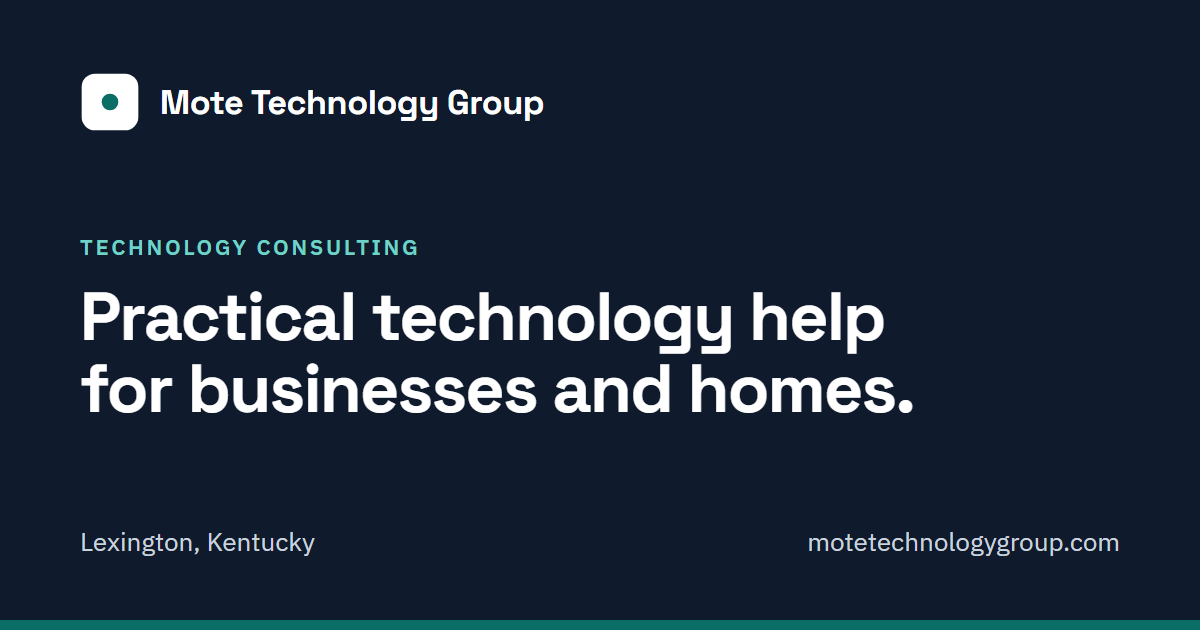
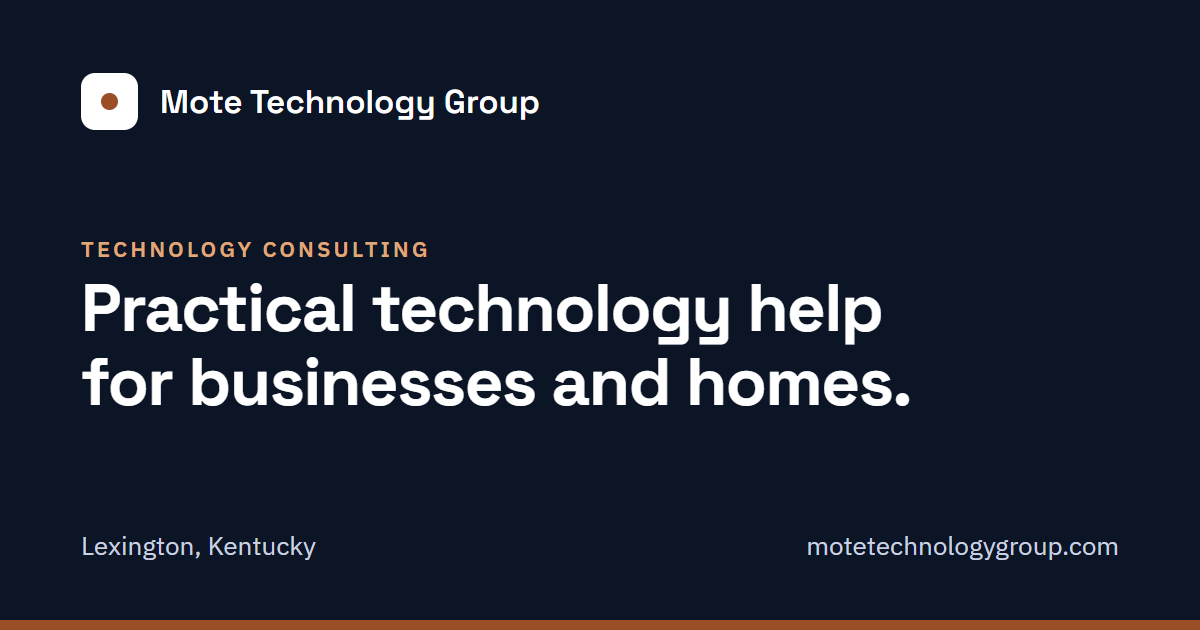
Switch to Midnight Copper color palette
Recolor index.html, 404.html, favicon.svg, og-image.png and
apple-touch-icon.png to the new palette.

diff --git a/index.html b/index.html
@@ -21,7 +21,7 @@
 <meta name="twitter:title" content="Mote Technology Group">
 <meta name="twitter:description" content="Practical technology help for businesses and homes, from Jackson Mote in Lexington, Kentucky.">
 <meta name="twitter:image" content="https://motetechnologygroup.com/og-image.png">
-<meta name="theme-color" content="#0F1B2D">
+<meta name="theme-color" content="#0C1526">
 <link rel="preconnect" href="https://fonts.googleapis.com">
 <link rel="preconnect" href="https://fonts.gstatic.com" crossorigin>
 <link href="https://fonts.googleapis.com/css2?family=Space+Grotesk:wght@500;600;700&amp;family=IBM+Plex+Sans:wght@400;500;600&amp;display=swap" rel="stylesheet">
@@ -54,91 +54,91 @@
 }
 </script>
 <style>
-body{margin:0;background:#F4F6F8}
-a{color:#0B5F59}a:hover{color:#083F3B}
+body{margin:0;background:#F7F4F0}
+a{color:#8A4521}a:hover{color:#6A3418}
 @media (max-width: 1000px){.svc-grid{grid-template-columns:repeat(2,minmax(0,1fr)) !important}}
 @media (max-width: 560px){.svc-grid{grid-template-columns:minmax(0,1fr) !important}}
 html{scroll-behavior:smooth}
 @media (max-width: 1000px){.hero-tiles{display:none !important}}
 @media (max-width: 640px){.site-header{padding-top:16px !important;padding-bottom:8px !important;row-gap:4px !important}.nav-cta{display:none !important}}
-a:focus-visible{outline:3px solid #0B6E66;outline-offset:3px}
+a:focus-visible{outline:3px solid #9A4F26;outline-offset:3px}
 @media (prefers-reduced-motion: reduce){html{scroll-behavior:auto}}
-.skip-link{position:absolute;left:16px;top:-80px;z-index:10;display:inline-flex;align-items:center;min-height:44px;padding:0 18px;border-radius:8px;background:#0F1B2D;color:#FFFFFF;font-family:'IBM Plex Sans',system-ui,sans-serif;font-weight:600;text-decoration:none}
+.skip-link{position:absolute;left:16px;top:-80px;z-index:10;display:inline-flex;align-items:center;min-height:44px;padding:0 18px;border-radius:8px;background:#0C1526;color:#FFFFFF;font-family:'IBM Plex Sans',system-ui,sans-serif;font-weight:600;text-decoration:none}
 .skip-link:focus{top:16px;color:#FFFFFF}
 </style>
 </head>
-<body><a class="skip-link" href="#top">Skip to content</a><div style="min-height: 100vh; background: #F4F6F8; color: #0F1B2D; font-family: 'IBM Plex Sans', system-ui, sans-serif; font-size: 17px; line-height: 1.6">
+<body><a class="skip-link" href="#top">Skip to content</a><div style="min-height: 100vh; background: #F7F4F0; color: #0C1526; font-family: 'IBM Plex Sans', system-ui, sans-serif; font-size: 17px; line-height: 1.6">
 
 <header class="site-header" style="max-width: 1160px; margin: 0 auto; padding: 24px 24px; display: flex; flex-wrap: wrap; gap: 16px; align-items: center; justify-content: space-between">
-<a href="#top" style="display: flex; align-items: center; gap: 12px; text-decoration: none; color: #0F1B2D">
-<svg width="36" height="36" viewBox="0 0 36 36" aria-hidden="true"><rect x="1" y="1" width="34" height="34" rx="8" fill="#0F1B2D"></rect><circle cx="18" cy="18" r="5" fill="#0B6E66"></circle></svg>
+<a href="#top" style="display: flex; align-items: center; gap: 12px; text-decoration: none; color: #0C1526">
+<svg width="36" height="36" viewBox="0 0 36 36" aria-hidden="true"><rect x="1" y="1" width="34" height="34" rx="8" fill="#0C1526"></rect><circle cx="18" cy="18" r="5" fill="#9A4F26"></circle></svg>
 <span style="font-family: 'Space Grotesk', sans-serif; font-weight: 700; font-size: 19px; letter-spacing: -0.01em">Mote Technology Group</span>
 </a>
 <nav style="display: flex; flex-wrap: wrap; gap: 24px; align-items: center">
-<a href="#services" style="display: inline-flex; align-items: center; min-height: 44px; color: #33415A; text-decoration: none; font-weight: 500">Services</a>
-<a href="#approach" style="display: inline-flex; align-items: center; min-height: 44px; color: #33415A; text-decoration: none; font-weight: 500">Approach</a>
-<a href="#about" style="display: inline-flex; align-items: center; min-height: 44px; color: #33415A; text-decoration: none; font-weight: 500">About</a>
-<a class="nav-cta" href="https://www.linkedin.com/in/jacksonmote/" style="display: inline-flex; align-items: center; min-height: 44px; padding: 0 18px; border-radius: 8px; background: #0F1B2D; color: #FFFFFF; text-decoration: none; font-weight: 600">Connect on LinkedIn</a>
+<a href="#services" style="display: inline-flex; align-items: center; min-height: 44px; color: #352F33; text-decoration: none; font-weight: 500">Services</a>
+<a href="#approach" style="display: inline-flex; align-items: center; min-height: 44px; color: #352F33; text-decoration: none; font-weight: 500">Approach</a>
+<a href="#about" style="display: inline-flex; align-items: center; min-height: 44px; color: #352F33; text-decoration: none; font-weight: 500">About</a>
+<a class="nav-cta" href="https://www.linkedin.com/in/jacksonmote/" style="display: inline-flex; align-items: center; min-height: 44px; padding: 0 18px; border-radius: 8px; background: #0C1526; color: #FFFFFF; text-decoration: none; font-weight: 600">Connect on LinkedIn</a>
 </nav>
 </header>
 
 <section id="top" style="max-width: 1160px; margin: 0 auto; padding: 72px 24px 88px; display: flex; flex-wrap: wrap; gap: 48px; align-items: center">
 <div style="flex: 999 1 560px; min-width: 0">
-<p style="margin: 0 0 20px; font-weight: 600; font-size: 14px; letter-spacing: 0.12em; text-transform: uppercase; color: #0B6E66">Technology consulting</p>
+<p style="margin: 0 0 20px; font-weight: 600; font-size: 14px; letter-spacing: 0.12em; text-transform: uppercase; color: #9A4F26">Technology consulting</p>
 <h1 style="margin: 0 0 24px; font-family: 'Space Grotesk', sans-serif; font-weight: 700; font-size: clamp(40px, 6vw, 68px); line-height: 1.05; letter-spacing: -0.025em">Practical technology help for teams that need to get it right.</h1>
-<p style="margin: 0 0 36px; max-width: 600px; font-size: 20px; color: #33415A">Product strategy, systems and workflow analysis, hands-on builds and home technology setups, from someone who has spent years turning complex requirements into software people actually use.</p>
+<p style="margin: 0 0 36px; max-width: 600px; font-size: 20px; color: #352F33">Product strategy, systems and workflow analysis, hands-on builds and home technology setups, from someone who has spent years turning complex requirements into software people actually use.</p>
 <div style="display: flex; flex-wrap: wrap; gap: 16px">
-<a href="mailto:hello@motetechnologygroup.com?subject=Project%20inquiry" style="display: inline-flex; align-items: center; min-height: 52px; padding: 0 26px; border-radius: 10px; background: #0B6E66; color: #FFFFFF; text-decoration: none; font-weight: 600; font-size: 17px">Start a conversation</a>
-<a href="#services" style="display: inline-flex; align-items: center; min-height: 52px; padding: 0 26px; border-radius: 10px; border: 1.5px solid #0F1B2D; color: #0F1B2D; text-decoration: none; font-weight: 600; font-size: 17px">See services</a>
+<a href="mailto:hello@motetechnologygroup.com?subject=Project%20inquiry" style="display: inline-flex; align-items: center; min-height: 52px; padding: 0 26px; border-radius: 10px; background: #9A4F26; color: #FFFFFF; text-decoration: none; font-weight: 600; font-size: 17px">Start a conversation</a>
+<a href="#services" style="display: inline-flex; align-items: center; min-height: 52px; padding: 0 26px; border-radius: 10px; border: 1.5px solid #0C1526; color: #0C1526; text-decoration: none; font-weight: 600; font-size: 17px">See services</a>
 </div>
 </div>
 <div class="hero-tiles" style="flex: 1 1 320px; min-width: 0; display: grid; grid-template-columns: repeat(2, minmax(0, 1fr)); gap: 14px" aria-hidden="true">
-<div style="height: 140px; border-radius: 16px; background: #0F1B2D"></div>
-<div style="height: 140px; border-radius: 16px; background: #DCE3EA; display: flex; align-items: center; justify-content: center"><div style="width: 56px; height: 56px; border-radius: 50%; background: #0B6E66"></div></div>
-<div style="height: 140px; border-radius: 16px; background: #DCE3EA"></div>
-<div style="height: 140px; border-radius: 16px; background: #0F1B2D; display: flex; align-items: flex-end; padding: 18px; box-sizing: border-box"><div style="width: 100%; height: 6px; border-radius: 3px; background: #0B6E66"></div></div>
+<div style="height: 140px; border-radius: 16px; background: #0C1526"></div>
+<div style="height: 140px; border-radius: 16px; background: #E5DED5; display: flex; align-items: center; justify-content: center"><div style="width: 56px; height: 56px; border-radius: 50%; background: #9A4F26"></div></div>
+<div style="height: 140px; border-radius: 16px; background: #E5DED5"></div>
+<div style="height: 140px; border-radius: 16px; background: #0C1526; display: flex; align-items: flex-end; padding: 18px; box-sizing: border-box"><div style="width: 100%; height: 6px; border-radius: 3px; background: #9A4F26"></div></div>
 </div>
 </section>
 
-<section id="services" style="background: #FFFFFF; border-top: 1px solid #DCE3EA; border-bottom: 1px solid #DCE3EA">
+<section id="services" style="background: #FFFFFF; border-top: 1px solid #E5DED5; border-bottom: 1px solid #E5DED5">
 <div style="max-width: 1160px; margin: 0 auto; padding: 88px 24px">
 <h2 style="margin: 0 0 12px; font-family: 'Space Grotesk', sans-serif; font-size: clamp(30px, 4vw, 42px); letter-spacing: -0.02em; line-height: 1.15">What I can help with</h2>
-<p style="margin: 0 0 48px; max-width: 620px; color: #33415A">Focused engagements, scoped up front, with clear deliverables.</p>
-<p style="margin: 0 0 16px; font-weight: 600; font-size: 14px; letter-spacing: 0.12em; text-transform: uppercase; color: #4A5870">For businesses</p>
+<p style="margin: 0 0 48px; max-width: 620px; color: #352F33">Focused engagements, scoped up front, with clear deliverables.</p>
+<p style="margin: 0 0 16px; font-weight: 600; font-size: 14px; letter-spacing: 0.12em; text-transform: uppercase; color: #5A5059">For businesses</p>
 <div class="svc-grid" style="display: grid; grid-template-columns: repeat(4, minmax(0, 1fr)); gap: 20px">
 
-<div style="padding: 28px; border-radius: 14px; background: #F4F6F8; display: flex; flex-direction: column; gap: 12px">
-<svg width="32" height="32" viewBox="0 0 24 24" fill="none" stroke="#0B6E66" stroke-width="1.8" stroke-linecap="round" stroke-linejoin="round" aria-hidden="true"><path d="M3 12h4l3-8 4 16 3-8h4"></path></svg>
+<div style="padding: 28px; border-radius: 14px; background: #F7F4F0; display: flex; flex-direction: column; gap: 12px">
+<svg width="32" height="32" viewBox="0 0 24 24" fill="none" stroke="#9A4F26" stroke-width="1.8" stroke-linecap="round" stroke-linejoin="round" aria-hidden="true"><path d="M3 12h4l3-8 4 16 3-8h4"></path></svg>
 <h3 style="margin: 0; font-family: 'Space Grotesk', sans-serif; font-size: 21px">Product strategy</h3>
-<p style="margin: 0; color: #33415A; font-size: 16px">Roadmaps, requirements and prioritization that tie what you build to what the business needs.</p>
+<p style="margin: 0; color: #352F33; font-size: 16px">Roadmaps, requirements and prioritization that tie what you build to what the business needs.</p>
 </div>
 
-<div style="padding: 28px; border-radius: 14px; background: #F4F6F8; display: flex; flex-direction: column; gap: 12px">
-<svg width="32" height="32" viewBox="0 0 24 24" fill="none" stroke="#0B6E66" stroke-width="1.8" stroke-linecap="round" stroke-linejoin="round" aria-hidden="true"><rect x="3" y="3" width="7" height="7" rx="1.5"></rect><rect x="14" y="14" width="7" height="7" rx="1.5"></rect><path d="M10 6.5h4a3 3 0 0 1 3 3V14"></path></svg>
+<div style="padding: 28px; border-radius: 14px; background: #F7F4F0; display: flex; flex-direction: column; gap: 12px">
+<svg width="32" height="32" viewBox="0 0 24 24" fill="none" stroke="#9A4F26" stroke-width="1.8" stroke-linecap="round" stroke-linejoin="round" aria-hidden="true"><rect x="3" y="3" width="7" height="7" rx="1.5"></rect><rect x="14" y="14" width="7" height="7" rx="1.5"></rect><path d="M10 6.5h4a3 3 0 0 1 3 3V14"></path></svg>
 <h3 style="margin: 0; font-family: 'Space Grotesk', sans-serif; font-size: 21px">Systems &amp; workflow review</h3>
-<p style="margin: 0; color: #33415A; font-size: 16px">A clear-eyed look at how your tools and processes fit together, and where the friction is.</p>
+<p style="margin: 0; color: #352F33; font-size: 16px">A clear-eyed look at how your tools and processes fit together, and where the friction is.</p>
 </div>
 
-<div style="padding: 28px; border-radius: 14px; background: #F4F6F8; display: flex; flex-direction: column; gap: 12px">
-<svg width="32" height="32" viewBox="0 0 24 24" fill="none" stroke="#0B6E66" stroke-width="1.8" stroke-linecap="round" stroke-linejoin="round" aria-hidden="true"><rect x="3" y="4" width="18" height="14" rx="2"></rect><path d="M3 8h18M8 21h8"></path></svg>
+<div style="padding: 28px; border-radius: 14px; background: #F7F4F0; display: flex; flex-direction: column; gap: 12px">
+<svg width="32" height="32" viewBox="0 0 24 24" fill="none" stroke="#9A4F26" stroke-width="1.8" stroke-linecap="round" stroke-linejoin="round" aria-hidden="true"><rect x="3" y="4" width="18" height="14" rx="2"></rect><path d="M3 8h18M8 21h8"></path></svg>
 <h3 style="margin: 0; font-family: 'Space Grotesk', sans-serif; font-size: 21px">Websites &amp; small-business tech</h3>
-<p style="margin: 0; color: #33415A; font-size: 16px">Modern, fast websites and the everyday setup behind them: domains, email and hosting.</p>
+<p style="margin: 0; color: #352F33; font-size: 16px">Modern, fast websites and the everyday setup behind them: domains, email and hosting.</p>
 </div>
 
-<div style="padding: 28px; border-radius: 14px; background: #F4F6F8; display: flex; flex-direction: column; gap: 12px">
-<svg width="32" height="32" viewBox="0 0 24 24" fill="none" stroke="#0B6E66" stroke-width="1.8" stroke-linecap="round" stroke-linejoin="round" aria-hidden="true"><path d="M12 3v3M12 18v3M3 12h3M18 12h3M5.6 5.6l2.1 2.1M16.3 16.3l2.1 2.1M5.6 18.4l2.1-2.1M16.3 7.7l2.1-2.1"></path><circle cx="12" cy="12" r="3.5"></circle></svg>
+<div style="padding: 28px; border-radius: 14px; background: #F7F4F0; display: flex; flex-direction: column; gap: 12px">
+<svg width="32" height="32" viewBox="0 0 24 24" fill="none" stroke="#9A4F26" stroke-width="1.8" stroke-linecap="round" stroke-linejoin="round" aria-hidden="true"><path d="M12 3v3M12 18v3M3 12h3M18 12h3M5.6 5.6l2.1 2.1M16.3 16.3l2.1 2.1M5.6 18.4l2.1-2.1M16.3 7.7l2.1-2.1"></path><circle cx="12" cy="12" r="3.5"></circle></svg>
 <h3 style="margin: 0; font-family: 'Space Grotesk', sans-serif; font-size: 21px">Automation &amp; AI tooling</h3>
-<p style="margin: 0; color: #33415A; font-size: 16px">Practical automation and AI-assisted tools that remove repetitive work without adding risk.</p>
+<p style="margin: 0; color: #352F33; font-size: 16px">Practical automation and AI-assisted tools that remove repetitive work without adding risk.</p>
 </div>
 
 </div>
 
-<p style="margin: 48px 0 16px; font-weight: 600; font-size: 14px; letter-spacing: 0.12em; text-transform: uppercase; color: #4A5870">For homes</p>
-<div style="padding: 36px; border-radius: 14px; background: #E7F2F0; display: flex; flex-wrap: wrap; gap: 32px; align-items: center">
+<p style="margin: 48px 0 16px; font-weight: 600; font-size: 14px; letter-spacing: 0.12em; text-transform: uppercase; color: #5A5059">For homes</p>
+<div style="padding: 36px; border-radius: 14px; background: #F3E9DF; display: flex; flex-wrap: wrap; gap: 32px; align-items: center">
 <div style="flex: 1 1 360px; min-width: 0; display: flex; flex-direction: column; gap: 12px">
-<svg width="32" height="32" viewBox="0 0 24 24" fill="none" stroke="#0B6E66" stroke-width="1.8" stroke-linecap="round" stroke-linejoin="round" aria-hidden="true"><path d="M3 11l9-7 9 7"></path><path d="M5 10v10h14V10"></path><path d="M9.5 15.5a3.5 3.5 0 0 1 5 0M8 13.5a6 6 0 0 1 8 0"></path><circle cx="12" cy="17.5" r="0.6" fill="#0B6E66"></circle></svg>
+<svg width="32" height="32" viewBox="0 0 24 24" fill="none" stroke="#9A4F26" stroke-width="1.8" stroke-linecap="round" stroke-linejoin="round" aria-hidden="true"><path d="M3 11l9-7 9 7"></path><path d="M5 10v10h14V10"></path><path d="M9.5 15.5a3.5 3.5 0 0 1 5 0M8 13.5a6 6 0 0 1 8 0"></path><circle cx="12" cy="17.5" r="0.6" fill="#9A4F26"></circle></svg>
 <h3 style="margin: 0; font-family: 'Space Grotesk', sans-serif; font-size: 24px">Home technology</h3>
-<p style="margin: 0; color: #33415A; font-size: 16px; max-width: 460px">Reliable Wi-Fi, a well-organized home network and smart-home devices that actually work together. Everything is set up securely and explained so you can manage it. Serving the Lexington area.</p>
+<p style="margin: 0; color: #352F33; font-size: 16px; max-width: 460px">Reliable Wi-Fi, a well-organized home network and smart-home devices that actually work together. Everything is set up securely and explained so you can manage it. Serving the Lexington area.</p>
 </div>
 <div style="flex: 1 1 360px; min-width: 0; display: grid; grid-template-columns: repeat(2, minmax(0, 1fr)); gap: 12px">
 <div style="padding: 16px 18px; border-radius: 10px; background: #FFFFFF; font-weight: 600; font-size: 16px">Wi-Fi &amp; mesh coverage</div>
@@ -155,28 +155,28 @@ a:focus-visible{outline:3px solid #0B6E66;outline-offset:3px}
 <h2 style="margin: 0 0 48px; font-family: 'Space Grotesk', sans-serif; font-size: clamp(30px, 4vw, 42px); letter-spacing: -0.02em; line-height: 1.15">How an engagement works</h2>
 <div style="display: grid; grid-template-columns: repeat(auto-fit, minmax(260px, 1fr)); gap: 32px">
 <div>
-<p style="margin: 0 0 8px; font-family: 'Space Grotesk', sans-serif; font-weight: 700; font-size: 40px; color: #0B6E66; line-height: 1">01</p>
+<p style="margin: 0 0 8px; font-family: 'Space Grotesk', sans-serif; font-weight: 700; font-size: 40px; color: #9A4F26; line-height: 1">01</p>
 <h3 style="margin: 0 0 8px; font-family: 'Space Grotesk', sans-serif; font-size: 21px">Talk it through</h3>
-<p style="margin: 0; color: #33415A">A short call to understand the problem, your constraints and what success looks like.</p>
+<p style="margin: 0; color: #352F33">A short call to understand the problem, your constraints and what success looks like.</p>
 </div>
 <div>
-<p style="margin: 0 0 8px; font-family: 'Space Grotesk', sans-serif; font-weight: 700; font-size: 40px; color: #0B6E66; line-height: 1">02</p>
+<p style="margin: 0 0 8px; font-family: 'Space Grotesk', sans-serif; font-weight: 700; font-size: 40px; color: #9A4F26; line-height: 1">02</p>
 <h3 style="margin: 0 0 8px; font-family: 'Space Grotesk', sans-serif; font-size: 21px">Scope it clearly</h3>
-<p style="margin: 0; color: #33415A">A written proposal with deliverables, timeline and price, so there are no surprises.</p>
+<p style="margin: 0; color: #352F33">A written proposal with deliverables, timeline and price, so there are no surprises.</p>
 </div>
 <div>
-<p style="margin: 0 0 8px; font-family: 'Space Grotesk', sans-serif; font-weight: 700; font-size: 40px; color: #0B6E66; line-height: 1">03</p>
+<p style="margin: 0 0 8px; font-family: 'Space Grotesk', sans-serif; font-weight: 700; font-size: 40px; color: #9A4F26; line-height: 1">03</p>
 <h3 style="margin: 0 0 8px; font-family: 'Space Grotesk', sans-serif; font-size: 21px">Deliver and hand off</h3>
-<p style="margin: 0; color: #33415A">Regular check-ins, then documentation your team can run with after the work is done.</p>
+<p style="margin: 0; color: #352F33">Regular check-ins, then documentation your team can run with after the work is done.</p>
 </div>
 </div>
 </section>
 
-<section id="about" style="background: #0F1B2D; color: #E8EDF2">
+<section id="about" style="background: #0C1526; color: #EEE8E0">
 <div style="max-width: 1160px; margin: 0 auto; padding: 88px 24px; display: flex; flex-wrap: wrap; gap: 48px; align-items: center">
 <img src="headshot.jpg" alt="Jackson Mote" width="200" height="200" loading="lazy" style="flex: 0 0 auto; width: 200px; height: 200px; border-radius: 20px; object-fit: cover">
 <div style="flex: 999 1 480px; min-width: 0">
-<p style="margin: 0 0 12px; font-weight: 600; font-size: 14px; letter-spacing: 0.12em; text-transform: uppercase; color: #6FD3C8">About</p>
+<p style="margin: 0 0 12px; font-weight: 600; font-size: 14px; letter-spacing: 0.12em; text-transform: uppercase; color: #E0A878">About</p>
 <h2 style="margin: 0 0 20px; font-family: 'Space Grotesk', sans-serif; font-size: clamp(30px, 4vw, 42px); letter-spacing: -0.02em; line-height: 1.15; color: #FFFFFF">Hi, I'm Jackson Mote.</h2>
 <p style="margin: 0 0 16px; max-width: 680px">I've spent 10 years in product management and technology, working across complex systems, data and detailed requirements. My focus has always been translating messy, high-stakes problems into products and setups that work.</p>
 <p style="margin: 0; max-width: 680px">Mote Technology Group is how I bring that experience to a wider range of teams, from early-stage companies and small businesses to households that want their technology to just work.</p>
@@ -186,18 +186,18 @@ a:focus-visible{outline:3px solid #0B6E66;outline-offset:3px}
 
 <section style="max-width: 1160px; margin: 0 auto; padding: 96px 24px; text-align: center">
 <h2 style="margin: 0 0 16px; font-family: 'Space Grotesk', sans-serif; font-size: clamp(30px, 4vw, 44px); letter-spacing: -0.02em; line-height: 1.15">Have a project in mind?</h2>
-<p style="margin: 0 auto 32px; max-width: 520px; color: #33415A">Send me an email or a message on LinkedIn and let's see if it's a fit.</p>
+<p style="margin: 0 auto 32px; max-width: 520px; color: #352F33">Send me an email or a message on LinkedIn and let's see if it's a fit.</p>
 <div style="display: flex; flex-wrap: wrap; gap: 16px; justify-content: center">
-<a href="mailto:hello@motetechnologygroup.com?subject=Project%20inquiry" style="display: inline-flex; align-items: center; min-height: 52px; padding: 8px 28px; box-sizing: border-box; max-width: 100%; text-align: center; border-radius: 10px; background: #0B6E66; color: #FFFFFF; text-decoration: none; font-weight: 600; font-size: 17px">Email hello@motetechnologygroup.com</a>
-<a href="https://www.linkedin.com/in/jacksonmote/" style="display: inline-flex; align-items: center; min-height: 52px; padding: 0 28px; border-radius: 10px; border: 1.5px solid #0F1B2D; color: #0F1B2D; text-decoration: none; font-weight: 600; font-size: 17px">Connect on LinkedIn</a>
+<a href="mailto:hello@motetechnologygroup.com?subject=Project%20inquiry" style="display: inline-flex; align-items: center; min-height: 52px; padding: 8px 28px; box-sizing: border-box; max-width: 100%; text-align: center; border-radius: 10px; background: #9A4F26; color: #FFFFFF; text-decoration: none; font-weight: 600; font-size: 17px">Email hello@motetechnologygroup.com</a>
+<a href="https://www.linkedin.com/in/jacksonmote/" style="display: inline-flex; align-items: center; min-height: 52px; padding: 0 28px; border-radius: 10px; border: 1.5px solid #0C1526; color: #0C1526; text-decoration: none; font-weight: 600; font-size: 17px">Connect on LinkedIn</a>
 </div>
 </section>
 
-<footer style="border-top: 1px solid #DCE3EA">
-<div style="max-width: 1160px; margin: 0 auto; padding: 28px 24px; display: flex; flex-wrap: wrap; gap: 12px; justify-content: space-between; color: #4A5870; font-size: 14px">
+<footer style="border-top: 1px solid #E5DED5">
+<div style="max-width: 1160px; margin: 0 auto; padding: 28px 24px; display: flex; flex-wrap: wrap; gap: 12px; justify-content: space-between; color: #5A5059; font-size: 14px">
 <span>© 2026 Mote Technology Group</span>
 <span>Based in Lexington, Kentucky</span>
-<a href="mailto:hello@motetechnologygroup.com" style="display: inline-flex; align-items: center; min-height: 44px; color: #0B6E66; font-weight: 600">hello@motetechnologygroup.com</a>
+<a href="mailto:hello@motetechnologygroup.com" style="display: inline-flex; align-items: center; min-height: 44px; color: #9A4F26; font-weight: 600">hello@motetechnologygroup.com</a>
 </div>
 </footer>
 

diff --git a/404.html b/404.html
@@ -7,46 +7,46 @@
 <meta name="robots" content="noindex">
 <link rel="icon" href="/favicon.svg" type="image/svg+xml">
 <link rel="apple-touch-icon" href="/apple-touch-icon.png">
-<meta name="theme-color" content="#0F1B2D">
+<meta name="theme-color" content="#0C1526">
 <link rel="preconnect" href="https://fonts.googleapis.com">
 <link rel="preconnect" href="https://fonts.gstatic.com" crossorigin>
 <link href="https://fonts.googleapis.com/css2?family=Space+Grotesk:wght@500;600;700&amp;family=IBM+Plex+Sans:wght@400;500;600&amp;display=swap" rel="stylesheet">
 <style>
-body{margin:0;background:#F4F6F8}
-a{color:#0B5F59}a:hover{color:#083F3B}
+body{margin:0;background:#F7F4F0}
+a{color:#8A4521}a:hover{color:#6A3418}
 @media (max-width: 640px){.site-header{padding-top:16px !important;padding-bottom:8px !important;row-gap:4px !important}.nav-cta{display:none !important}}
-a:focus-visible{outline:3px solid #0B6E66;outline-offset:3px}
-.skip-link{position:absolute;left:16px;top:-80px;z-index:10;display:inline-flex;align-items:center;min-height:44px;padding:0 18px;border-radius:8px;background:#0F1B2D;color:#FFFFFF;font-family:'IBM Plex Sans',system-ui,sans-serif;font-weight:600;text-decoration:none}
+a:focus-visible{outline:3px solid #9A4F26;outline-offset:3px}
+.skip-link{position:absolute;left:16px;top:-80px;z-index:10;display:inline-flex;align-items:center;min-height:44px;padding:0 18px;border-radius:8px;background:#0C1526;color:#FFFFFF;font-family:'IBM Plex Sans',system-ui,sans-serif;font-weight:600;text-decoration:none}
 .skip-link:focus{top:16px;color:#FFFFFF}
 </style>
 </head>
-<body><a class="skip-link" href="#main">Skip to content</a><div style="min-height: 100vh; display: flex; flex-direction: column; background: #F4F6F8; color: #0F1B2D; font-family: 'IBM Plex Sans', system-ui, sans-serif; font-size: 17px; line-height: 1.6">
+<body><a class="skip-link" href="#main">Skip to content</a><div style="min-height: 100vh; display: flex; flex-direction: column; background: #F7F4F0; color: #0C1526; font-family: 'IBM Plex Sans', system-ui, sans-serif; font-size: 17px; line-height: 1.6">
 
 <header class="site-header" style="width: 100%; max-width: 1208px; margin: 0 auto; padding: 24px 24px; box-sizing: border-box; display: flex; flex-wrap: wrap; gap: 16px; align-items: center; justify-content: space-between">
-<a href="/" style="display: flex; align-items: center; gap: 12px; text-decoration: none; color: #0F1B2D">
-<svg width="36" height="36" viewBox="0 0 36 36" aria-hidden="true"><rect x="1" y="1" width="34" height="34" rx="8" fill="#0F1B2D"></rect><circle cx="18" cy="18" r="5" fill="#0B6E66"></circle></svg>
+<a href="/" style="display: flex; align-items: center; gap: 12px; text-decoration: none; color: #0C1526">
+<svg width="36" height="36" viewBox="0 0 36 36" aria-hidden="true"><rect x="1" y="1" width="34" height="34" rx="8" fill="#0C1526"></rect><circle cx="18" cy="18" r="5" fill="#9A4F26"></circle></svg>
 <span style="font-family: 'Space Grotesk', sans-serif; font-weight: 700; font-size: 19px; letter-spacing: -0.01em">Mote Technology Group</span>
 </a>
 <nav style="display: flex; flex-wrap: wrap; gap: 24px; align-items: center">
-<a href="/#services" style="display: inline-flex; align-items: center; min-height: 44px; color: #33415A; text-decoration: none; font-weight: 500">Services</a>
-<a href="/#approach" style="display: inline-flex; align-items: center; min-height: 44px; color: #33415A; text-decoration: none; font-weight: 500">Approach</a>
-<a href="/#about" style="display: inline-flex; align-items: center; min-height: 44px; color: #33415A; text-decoration: none; font-weight: 500">About</a>
-<a class="nav-cta" href="https://www.linkedin.com/in/jacksonmote/" style="display: inline-flex; align-items: center; min-height: 44px; padding: 0 18px; border-radius: 8px; background: #0F1B2D; color: #FFFFFF; text-decoration: none; font-weight: 600">Connect on LinkedIn</a>
+<a href="/#services" style="display: inline-flex; align-items: center; min-height: 44px; color: #352F33; text-decoration: none; font-weight: 500">Services</a>
+<a href="/#approach" style="display: inline-flex; align-items: center; min-height: 44px; color: #352F33; text-decoration: none; font-weight: 500">Approach</a>
+<a href="/#about" style="display: inline-flex; align-items: center; min-height: 44px; color: #352F33; text-decoration: none; font-weight: 500">About</a>
+<a class="nav-cta" href="https://www.linkedin.com/in/jacksonmote/" style="display: inline-flex; align-items: center; min-height: 44px; padding: 0 18px; border-radius: 8px; background: #0C1526; color: #FFFFFF; text-decoration: none; font-weight: 600">Connect on LinkedIn</a>
 </nav>
 </header>
 
 <main id="main" style="flex: 1 0 auto; width: 100%; max-width: 1208px; margin: 0 auto; padding: 72px 24px 96px; box-sizing: border-box">
-<p style="margin: 0 0 20px; font-weight: 600; font-size: 14px; letter-spacing: 0.12em; text-transform: uppercase; color: #0B6E66">Error 404</p>
+<p style="margin: 0 0 20px; font-weight: 600; font-size: 14px; letter-spacing: 0.12em; text-transform: uppercase; color: #9A4F26">Error 404</p>
 <h1 style="margin: 0 0 24px; font-family: 'Space Grotesk', sans-serif; font-weight: 700; font-size: clamp(40px, 6vw, 68px); line-height: 1.05; letter-spacing: -0.025em">This page doesn't exist.</h1>
-<p style="margin: 0 0 36px; max-width: 600px; font-size: 20px; color: #33415A">The link may be out of date, or the address may have a typo. Everything on this site lives on the home page.</p>
+<p style="margin: 0 0 36px; max-width: 600px; font-size: 20px; color: #352F33">The link may be out of date, or the address may have a typo. Everything on this site lives on the home page.</p>
 <div style="display: flex; flex-wrap: wrap; gap: 16px">
-<a href="/" style="display: inline-flex; align-items: center; min-height: 52px; padding: 0 26px; border-radius: 10px; background: #0B6E66; color: #FFFFFF; text-decoration: none; font-weight: 600; font-size: 17px">Back to home</a>
-<a href="/#services" style="display: inline-flex; align-items: center; min-height: 52px; padding: 0 26px; border-radius: 10px; border: 1.5px solid #0F1B2D; color: #0F1B2D; text-decoration: none; font-weight: 600; font-size: 17px">See services</a>
+<a href="/" style="display: inline-flex; align-items: center; min-height: 52px; padding: 0 26px; border-radius: 10px; background: #9A4F26; color: #FFFFFF; text-decoration: none; font-weight: 600; font-size: 17px">Back to home</a>
+<a href="/#services" style="display: inline-flex; align-items: center; min-height: 52px; padding: 0 26px; border-radius: 10px; border: 1.5px solid #0C1526; color: #0C1526; text-decoration: none; font-weight: 600; font-size: 17px">See services</a>
 </div>
 </main>
 
-<footer style="border-top: 1px solid #DCE3EA">
-<div style="max-width: 1160px; margin: 0 auto; padding: 28px 24px; display: flex; flex-wrap: wrap; gap: 12px; justify-content: space-between; color: #4A5870; font-size: 14px">
+<footer style="border-top: 1px solid #E5DED5">
+<div style="max-width: 1160px; margin: 0 auto; padding: 28px 24px; display: flex; flex-wrap: wrap; gap: 12px; justify-content: space-between; color: #5A5059; font-size: 14px">
 <span>© 2026 Mote Technology Group</span>
 <span>Based in Lexington, Kentucky</span>
 </div>
